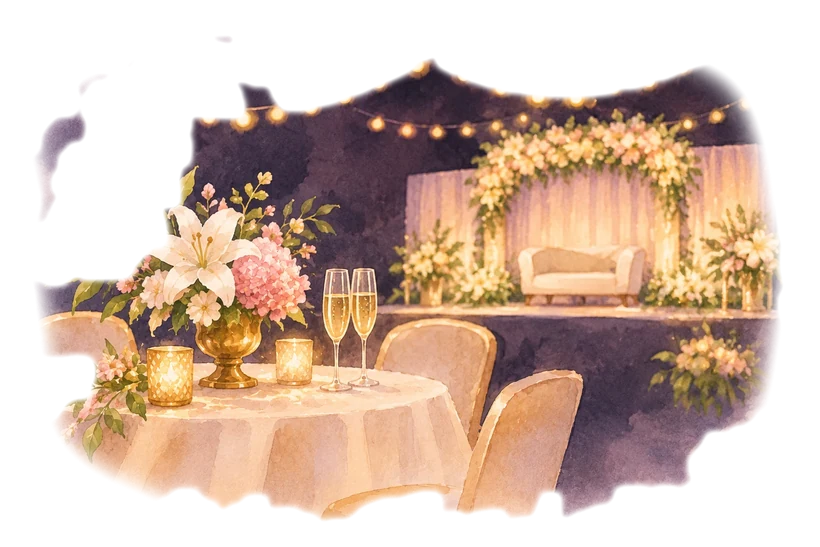
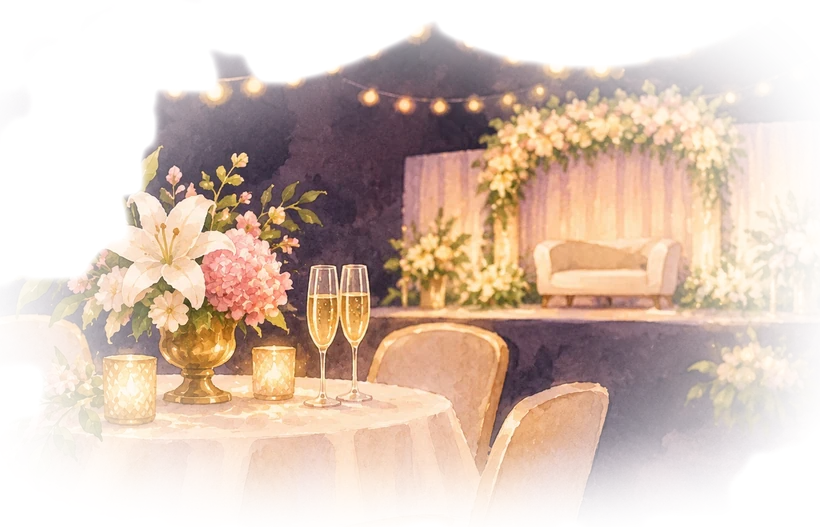
Fix hero name clipping; centre and soften the dark wedding/reception paintings
- hero: give the script names vertical room so background-clip:text no longer clips the swash of the A
- cards: global img max-width capped the widened paintings, which shifted them 22px left; lift it
- paintings: centre on their content, smooth the reception's bottom/edge fade

Claude-Session: https://claude.ai/code/session_01Qmhd29NazhZw4N3PLk8SiJ

diff --git a/css/styles.css b/css/styles.css
@@ -311,7 +311,8 @@ button { cursor: pointer; }
   -webkit-background-clip: text;
   background-clip: text;
   -webkit-text-fill-color: transparent;
-  padding: 0 0.15em; /* avoid script swash clipping */
+  padding: 0.2em 0.15em 0.14em; /* room for the script swashes: background-clip:text clips to this box */
+  margin: -0.2em 0 -0.14em;
 }
 .hero__amp {
   font-family: var(--font-serif);
@@ -655,8 +656,7 @@ body.is-open .hero__petals i { animation-play-state: running; }
   object-fit: contain;
 }
 .event--wedding .event__paint,
-.event--reception .event__paint { left: -22px; width: calc(100% + 44px); }
-.event--wedding .event__paint { transform: scale(1.32); }
+.event--reception .event__paint { left: -22px; width: calc(100% + 44px); max-width: none; }
 .event__foot { display: grid; gap: 12px; }
 
 .event__count {

diff --git a/tools/prepare-paintings.py b/tools/prepare-paintings.py
@@ -75,6 +75,17 @@ def finish(rgb, alpha, width):
     return im.resize((width, round(im.height * width / im.width)), Image.LANCZOS)
 
 
+def centre_on_content(im, pad, width):
+    """Crop to the bounding box of the visible pixels (plus a margin) so the content sits dead centre."""
+    a = np.asarray(im)[..., 3]
+    ys, xs = np.where(a > 40)
+    l, r, t, b = xs.min(), xs.max(), ys.min(), ys.max()
+    mx, my = round((r - l) * pad), round((b - t) * pad)
+    box = (max(l - mx, 0), max(t - my, 0), min(r + mx, im.width), min(b + my, im.height))
+    c = im.crop(box)
+    return c.resize((width, round(c.height * width / c.width)), Image.LANCZOS)
+
+
 def edge_colour(im):
     a = np.asarray(im).astype("float32")
     al = a[..., 3] / 255.0
@@ -117,22 +128,33 @@ def main():
     save(canvas, "sangeet-mehendi")
 
     print("dark paintings:")
-    # reception: dark purple wash on cream paper -> drop the paper, keep the wash
+    # reception: dark purple wash on cream paper -> drop the paper, keep the wash, then centre on the content
     rec = Image.open(os.path.join(SRC, "reception-dark.webp")).convert("RGB")
     w, h = rec.size
     outside = soften(outside_paper(rec, 60), 15, 7)
-    alpha = (1 - outside) * feather_mask(w, h, 5, n=3.4, wobble=0.05, feather=0.12, blur=0.012, inset=1.0)
-    # push the semi-transparent mauve fringe of the wash towards transparent so it melts into the card colour
-    alpha = np.clip((alpha - 0.55) / 0.45, 0, 1) ** 1.5
-    save(finish(rec, alpha, 820), "reception")
+    paper = np.clip(((1 - outside) - 0.55) / 0.45, 0, 1) ** 1.5     # thin out the mauve fringe of the wash
+    # the soft shape is applied afterwards (not thresholded) so the bottom edge fades smoothly instead of being cut
+    alpha = paper * feather_mask(w, h, 5, n=2.8, wobble=0.07, feather=0.50, blur=0.035, inset=0.93)
+    # the paper line under the tablecloth leaves ragged dark bumps: melt the bottom edge out gradually
+    ramp = np.clip((0.95 - np.linspace(0, 1, h)) / 0.20, 0, 1)
+    alpha = alpha * (ramp * ramp * (3 - 2 * ramp))[:, None]
+    full = rec.convert("RGBA")
+    full.putalpha(Image.fromarray((np.clip(alpha, 0, 1) * 255).astype("uint8")))
+    save(centre_on_content(full, pad=0.05, width=820), "reception")
 
-    # wedding: plum background all the way to the edge -> just feather the rectangle away
+    # wedding: plum background all the way to the edge -> centre the mandap, then feather the rectangle away
     wed = Image.open(os.path.join(SRC, "wedding-dark.webp")).convert("RGB")
-    w, h = wed.size
-    alpha = feather_mask(w, h, 9, n=3.0, wobble=0.08, feather=0.30, blur=0.02, inset=1.0)
-    save(finish(wed, alpha, 820), "wedding")
-    ring = np.concatenate([np.asarray(wed)[:30].reshape(-1, 3), np.asarray(wed)[-30:].reshape(-1, 3)])
-    print("  wedding raw background rgb", tuple(int(v) for v in np.median(ring, axis=0)))
+    bg = tuple(int(v) for v in np.median(np.concatenate([np.asarray(wed)[:30].reshape(-1, 3), np.asarray(wed)[-30:].reshape(-1, 3)]), axis=0))
+    diff = np.linalg.norm(np.asarray(wed).astype("float32") - np.array(bg, dtype="float32"), axis=2)
+    diff = np.asarray(Image.fromarray(np.clip(diff * 3, 0, 255).astype("uint8")).filter(ImageFilter.GaussianBlur(4))).astype("float32") / 3
+    ys, xs = np.where(diff > 42)
+    l, r, t, b2 = xs.min(), xs.max(), ys.min(), ys.max()
+    cw, ch = round((r - l) * 1.3), round((b2 - t) * 1.3)
+    canvas = Image.new("RGB", (cw, ch), bg)
+    canvas.paste(wed, (round(cw / 2 - (l + r) / 2), round(ch / 2 - (t + b2) / 2)))
+    alpha = feather_mask(cw, ch, 9, n=3.0, wobble=0.07, feather=0.30, blur=0.02, inset=1.0)
+    save(finish(canvas, alpha, 820), "wedding")
+    print("  wedding raw background rgb", bg)
 
 
 if __name__ == "__main__":
